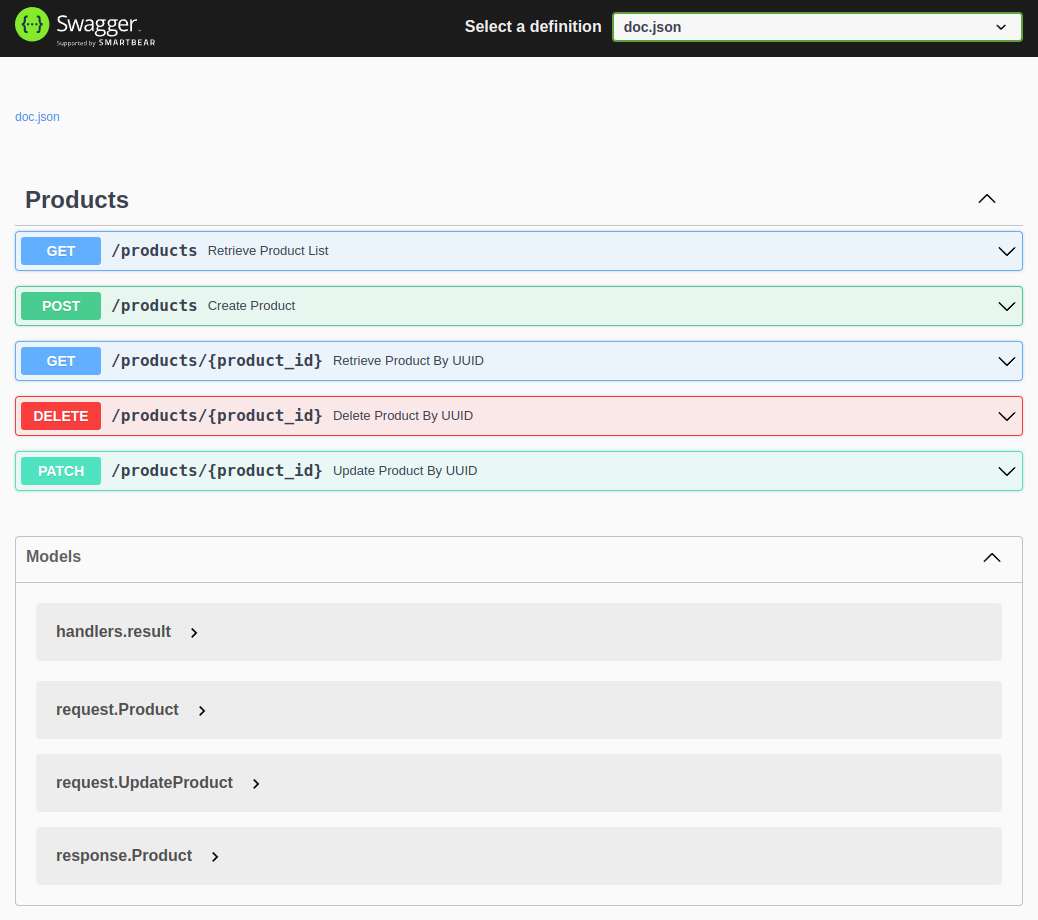
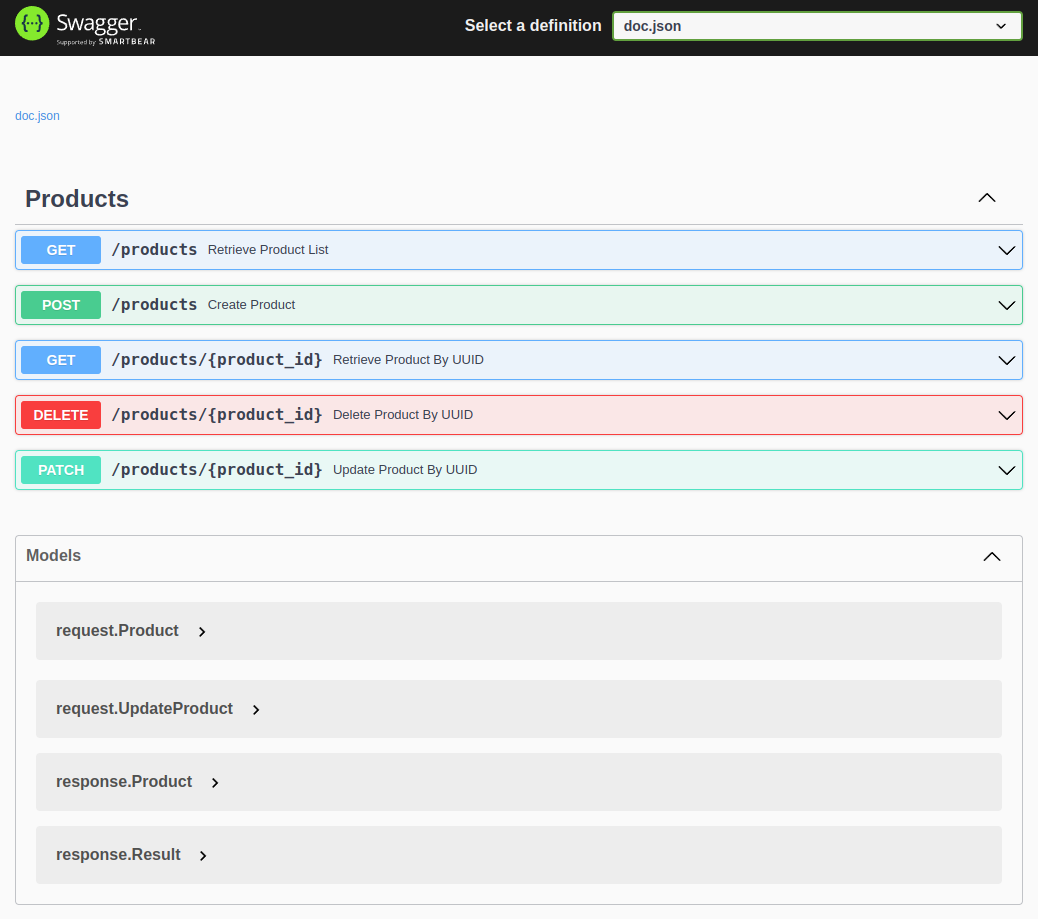
fix: response.Result handler

diff --git a/internal/handlers/productHandler.go b/internal/handlers/productHandler.go
@@ -15,10 +15,6 @@ type ProductHandler struct {
 	productDB *database.ProductDB
 }
 
-type result struct {
-	Msg string `json:"msg"`
-}
-
 func NewProductHandler(productDB *database.ProductDB) *ProductHandler {
 	return &ProductHandler{
 		productDB: productDB,
@@ -31,14 +27,14 @@ func NewProductHandler(productDB *database.ProductDB) *ProductHandler {
 // @Accept json
 // @Produce json
 // @Param request body request.Product true "Request body for create"
-// @Success 201 {object} result
-// @Failure 400 {object} result
-// @Failure 500 {object} result
+// @Success 201 {object} response.Result
+// @Failure 400 {object} response.Result
+// @Failure 500 {object} response.Result
 // @Router /products [post]
 func (ph *ProductHandler) CreateProduct(c echo.Context) error {
 	reqP := new(request.Product)
 	if err := c.Bind(reqP); err != nil {
-		return c.JSON(http.StatusBadRequest, result{Msg: "bad request"})
+		return c.JSON(http.StatusBadRequest, response.Result{Msg: "bad request"})
 	}
 
 	productEntity := entity.NewProduct(
@@ -49,10 +45,10 @@ func (ph *ProductHandler) CreateProduct(c echo.Context) error {
 	)
 
 	if err := ph.productDB.DB.Create(&productEntity).Error; err != nil {
-		return c.JSON(http.StatusInternalServerError, result{Msg: "an error occurred, please try again later"})
+		return c.JSON(http.StatusInternalServerError, response.Result{Msg: "an error occurred, please try again later"})
 	}
 
-	return c.JSON(http.StatusCreated, result{Msg: "product created successfully"})
+	return c.JSON(http.StatusCreated, response.Result{Msg: "product created successfully"})
 }
 
 // @Summary Retrieve Product By UUID
@@ -61,19 +57,19 @@ func (ph *ProductHandler) CreateProduct(c echo.Context) error {
 // @Produce json
 // @Param product_id path string true "Product UUID"
 // @Success 200 {object} response.Product
-// @Failure 400 {object} result
-// @Failure 404 {object} result
+// @Failure 400 {object} response.Result
+// @Failure 404 {object} response.Result
 // @Router /products/{product_id} [get]
 func (ph *ProductHandler) RetrieveProductById(c echo.Context) error {
 	productId := c.Param("product_id")
 	if !isValidUUID(productId) {
-		return c.JSON(http.StatusBadRequest, result{Msg: "bad request"})
+		return c.JSON(http.StatusBadRequest, response.Result{Msg: "bad request"})
 	}
 	productUUID := uuid.MustParse(productId)
 
 	p := entity.Product{UUID: productUUID}
 	if err := ph.productDB.DB.Where(&entity.Product{UUID: productUUID}).First(&p).Error; err != nil {
-		return c.JSON(http.StatusNotFound, result{Msg: "product not found"})
+		return c.JSON(http.StatusNotFound, response.Result{Msg: "product not found"})
 	}
 
 	respP := response.NewProduct(p)
@@ -87,26 +83,26 @@ func (ph *ProductHandler) RetrieveProductById(c echo.Context) error {
 // @Produce json
 // @Param product_id path string true "Product UUID"
 // @Param request body request.UpdateProduct true "Request body for update"
-// @Success 200 {object} result
-// @Failure 400 {object} result
-// @Failure 404 {object} result
-// @Failure 500 {object} result
+// @Success 200 {object} response.Result
+// @Failure 400 {object} response.Result
+// @Failure 404 {object} response.Result
+// @Failure 500 {object} response.Result
 // @Router /products/{product_id} [patch]
 func (ph *ProductHandler) UpdateProductById(c echo.Context) error {
 	productId := c.Param("product_id")
 	if !isValidUUID(productId) {
-		return c.JSON(http.StatusBadRequest, result{Msg: "bad request"})
+		return c.JSON(http.StatusBadRequest, response.Result{Msg: "bad request"})
 	}
 	productUUID := uuid.MustParse(productId)
 
 	p := entity.Product{UUID: productUUID}
 	if err := ph.productDB.DB.Where(&entity.Product{UUID: productUUID}).First(&p).Error; err != nil {
-		return c.JSON(http.StatusNotFound, result{Msg: "product not found"})
+		return c.JSON(http.StatusNotFound, response.Result{Msg: "product not found"})
 	}
 
 	reqP := new(request.UpdateProduct)
 	if err := c.Bind(reqP); err != nil {
-		return c.JSON(http.StatusBadRequest, result{Msg: "bad request"})
+		return c.JSON(http.StatusBadRequest, response.Result{Msg: "bad request"})
 	}
 
 	if reqP.Name != "" {
@@ -122,10 +118,10 @@ func (ph *ProductHandler) UpdateProductById(c echo.Context) error {
 	}
 
 	if err := ph.productDB.DB.Save(&p).Error; err != nil {
-		return c.JSON(http.StatusInternalServerError, result{Msg: "an error occurred, please try again later"})
+		return c.JSON(http.StatusInternalServerError, response.Result{Msg: "an error occurred, please try again later"})
 	}
 
-	return c.JSON(http.StatusOK, result{Msg: "product updated successfully"})
+	return c.JSON(http.StatusOK, response.Result{Msg: "product updated successfully"})
 }
 
 // @Summary Retrieve Product List
@@ -133,12 +129,12 @@ func (ph *ProductHandler) UpdateProductById(c echo.Context) error {
 // @Tags Products
 // @Produce json
 // @Success 200 {object} []response.Product
-// @Failure 500 {object} result
+// @Failure 500 {object} response.Result
 // @Router /products [get]
 func (ph *ProductHandler) RetriveProductList(c echo.Context) error {
 	products := []entity.Product{}
 	if err := ph.productDB.DB.Find(&products).Order("id desc").Error; err != nil {
-		return c.JSON(http.StatusInternalServerError, result{Msg: "an error occurred, please try again later"})
+		return c.JSON(http.StatusInternalServerError, response.Result{Msg: "an error occurred, please try again later"})
 	}
 
 	resp := []response.Product{}
@@ -158,27 +154,27 @@ func (ph *ProductHandler) RetriveProductList(c echo.Context) error {
 // @Produce json
 // @Param product_id path string true "Product UUID"
 // @Success 204
-// @Failure 400 {object} result
-// @Failure 404 {object} result
-// @Failure 500 {object} result
+// @Failure 400 {object} response.Result
+// @Failure 404 {object} response.Result
+// @Failure 500 {object} response.Result
 // @Router /products/{product_id} [delete]
 func (ph *ProductHandler) DeleteProductById(c echo.Context) error {
 	productId := c.Param("product_id")
 	if !isValidUUID(productId) {
-		return c.JSON(http.StatusBadRequest, result{Msg: "bad request"})
+		return c.JSON(http.StatusBadRequest, response.Result{Msg: "bad request"})
 	}
 	productUUID := uuid.MustParse(productId)
 
 	p := entity.Product{UUID: productUUID}
 	if err := ph.productDB.DB.Where(&entity.Product{UUID: productUUID}).First(&p).Error; err != nil {
-		return c.JSON(http.StatusNotFound, result{Msg: "product not found"})
+		return c.JSON(http.StatusNotFound, response.Result{Msg: "product not found"})
 	}
 
 	if delP := ph.productDB.DB.Delete(&p); delP.Error != nil {
-		return c.JSON(http.StatusInternalServerError, result{Msg: "an error occurred, please try again later"})
+		return c.JSON(http.StatusInternalServerError, response.Result{Msg: "an error occurred, please try again later"})
 	}
 
-	return c.JSON(http.StatusNoContent, result{Msg: "product removed successfully"})
+	return c.JSON(http.StatusNoContent, response.Result{Msg: "product removed successfully"})
 }
 
 func isValidUUID(u string) bool {

diff --git a/api/docs.go b/api/docs.go
@@ -38,7 +38,7 @@ const docTemplate = `{
                     "500": {
                         "description": "Internal Server Error",
                         "schema": {
-                            "$ref": "#/definitions/handlers.result"
+                            "$ref": "#/definitions/response.Result"
                         }
                     }
                 }
@@ -70,19 +70,19 @@ const docTemplate = `{
                     "201": {
                         "description": "Created",
                         "schema": {
-                            "$ref": "#/definitions/handlers.result"
+                            "$ref": "#/definitions/response.Result"
                         }
                     },
                     "400": {
                         "description": "Bad Request",
                         "schema": {
-                            "$ref": "#/definitions/handlers.result"
+                            "$ref": "#/definitions/response.Result"
                         }
                     },
                     "500": {
                         "description": "Internal Server Error",
                         "schema": {
-                            "$ref": "#/definitions/handlers.result"
+                            "$ref": "#/definitions/response.Result"
                         }
                     }
                 }
@@ -117,13 +117,13 @@ const docTemplate = `{
                     "400": {
                         "description": "Bad Request",
                         "schema": {
-                            "$ref": "#/definitions/handlers.result"
+                            "$ref": "#/definitions/response.Result"
                         }
                     },
                     "404": {
                         "description": "Not Found",
                         "schema": {
-                            "$ref": "#/definitions/handlers.result"
+                            "$ref": "#/definitions/response.Result"
                         }
                     }
                 }
@@ -153,19 +153,19 @@ const docTemplate = `{
                     "400": {
                         "description": "Bad Request",
                         "schema": {
-                            "$ref": "#/definitions/handlers.result"
+                            "$ref": "#/definitions/response.Result"
                         }
                     },
                     "404": {
                         "description": "Not Found",
                         "schema": {
-                            "$ref": "#/definitions/handlers.result"
+                            "$ref": "#/definitions/response.Result"
                         }
                     },
                     "500": {
                         "description": "Internal Server Error",
                         "schema": {
-                            "$ref": "#/definitions/handlers.result"
+                            "$ref": "#/definitions/response.Result"
                         }
                     }
                 }
@@ -204,25 +204,25 @@ const docTemplate = `{
                     "200": {
                         "description": "OK",
                         "schema": {
-                            "$ref": "#/definitions/handlers.result"
+                            "$ref": "#/definitions/response.Result"
                         }
                     },
                     "400": {
                         "description": "Bad Request",
                         "schema": {
-                            "$ref": "#/definitions/handlers.result"
+                            "$ref": "#/definitions/response.Result"
                         }
                     },
                     "404": {
                         "description": "Not Found",
                         "schema": {
-                            "$ref": "#/definitions/handlers.result"
+                            "$ref": "#/definitions/response.Result"
                         }
                     },
                     "500": {
                         "description": "Internal Server Error",
                         "schema": {
-                            "$ref": "#/definitions/handlers.result"
+                            "$ref": "#/definitions/response.Result"
                         }
                     }
                 }
@@ -230,14 +230,6 @@ const docTemplate = `{
         }
     },
     "definitions": {
-        "handlers.result": {
-            "type": "object",
-            "properties": {
-                "msg": {
-                    "type": "string"
-                }
-            }
-        },
         "request.Product": {
             "type": "object",
             "required": [
@@ -306,6 +298,14 @@ const docTemplate = `{
                     "type": "string"
                 },
                 "uuid": {
+                    "type": "string"
+                }
+            }
+        },
+        "response.Result": {
+            "type": "object",
+            "properties": {
+                "msg": {
                     "type": "string"
                 }
             }

diff --git a/cmd/api/main.go b/cmd/api/main.go
@@ -21,6 +21,7 @@ func main() {
 	// Retry connecting to the database for RetryMaxElapsedTimeInMs Milliseconds
 	var dbErr error
 	var db *gorm.DB
+
 	retry := backoff.NewExponentialBackOff()
 	retry.MaxElapsedTime = time.Duration(cfg.API.RetryMaxElapsedTimeInMs) * time.Millisecond
 	backoff.RetryNotify(func() error {

diff --git a/internal/handlers/response/product.go b/internal/handlers/response/product.go
@@ -7,6 +7,10 @@ import (
 	"github.com/jtonynet/go-products-api/internal/entity"
 )
 
+type Result struct {
+	Msg string `json:"msg"`
+}
+
 type Product struct {
 	UUID        uuid.UUID `json:"uuid"`
 	Name        string    `json:"name"`
